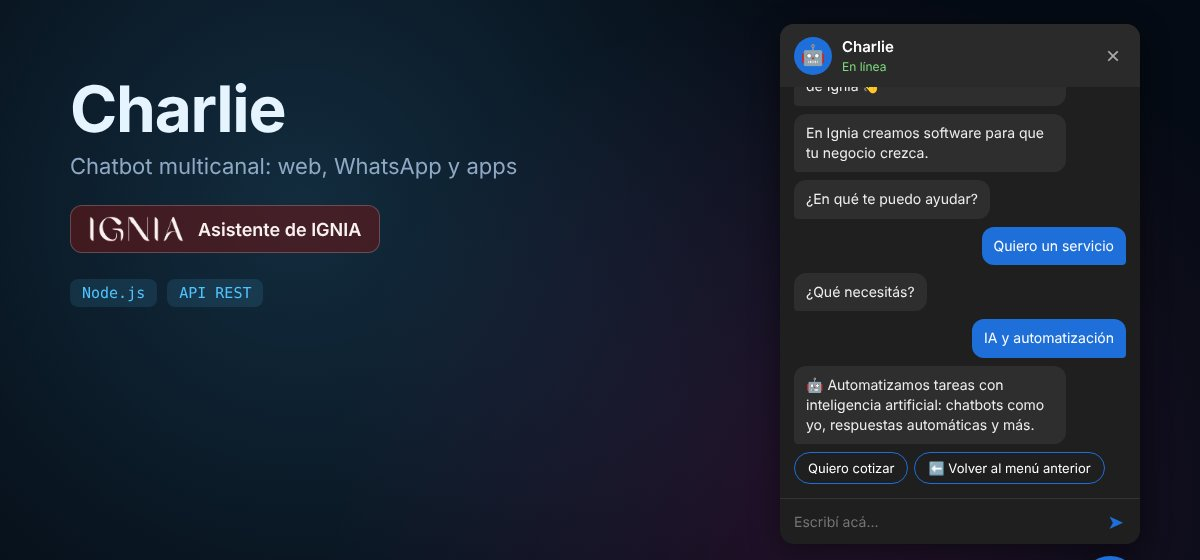
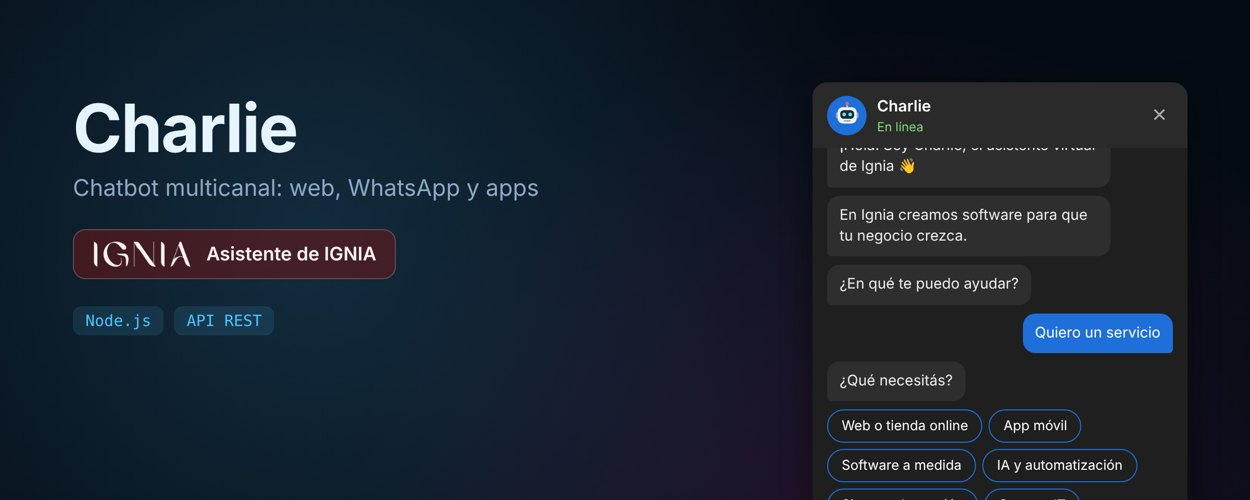
Charlie terminado: etiqueta 'En línea' y nueva imagen de la tarjeta
Claude-Session: https://claude.ai/code/session_015AajDPvnCLQsy6jvFxWcdf

diff --git a/index.html b/index.html
@@ -340,9 +340,9 @@
     </div>
 
     <div class="card featured reveal" data-c="web">
-      <div class="thumb"><span class="badge wip">En proceso<span class="dots"><i>.</i><i>.</i><i>.</i></span></span><img src="img/charlie.jpg" alt="Charlie, el chatbot de IGNIA, respondiendo en una página web" loading="lazy"></div>
+      <div class="thumb"><span class="badge live">En línea</span><img src="img/charlie.jpg" alt="Charlie, el chatbot de IGNIA, respondiendo en una página web" loading="lazy"></div>
       <div class="card-body">
-        <h3>Charlie — Chatbot multicanal de IGNIA <span class="wip-text">(en proceso<span class="dots"><i>.</i><i>.</i><i>.</i></span>)</span></h3>
+        <h3>Charlie — Chatbot multicanal de IGNIA</h3>
         <p>Asistente virtual de IGNIA que atiende a los clientes, muestra los servicios y arma pedidos de cotización. Un solo "cerebro" sirve para la web, WhatsApp y apps.</p>
         <ul>
           <li>Motor de conversaciones propio: los flujos se editan en JSON, sin tocar código.</li>
